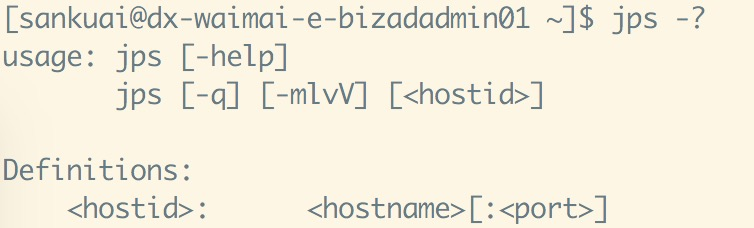
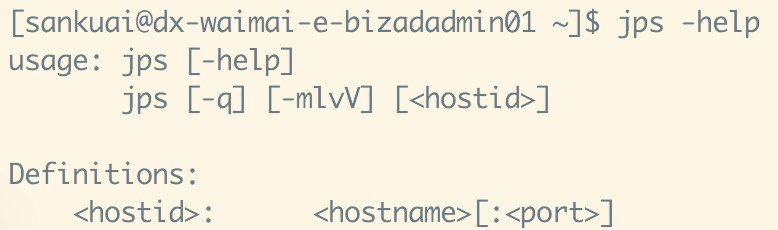
update

diff --git a/note/jps.md b/note/jps.md
@@ -12,6 +12,10 @@ java程序启动以后，会在`java.io.tmpdir`目录下，就是临时文件夹
 
 #### 如何使用？
 
+jps -help
+
+![](https://raw.githubusercontent.com/tinyivc/tinyivc.github.io/master/img/jps-help.jpg)
+
 ```shell
 jps [-q] [-mlvV] [<hostid>]
 ```
@@ -22,6 +26,8 @@ jps [-q] [-mlvV] [<hostid>]
 jps -lvm
 ```
 
+![](https://raw.githubusercontent.com/tinyivc/tinyivc.github.io/master/img/jps-lvm.jpg)
+
 #### 具体参数
 
 ##### hostid
@@ -31,18 +37,26 @@ jps -lvm
 ##### -l
 
     输出应用程序主类的类全名，或者是应用程序JAR文件的完整路径。
+![](https://raw.githubusercontent.com/tinyivc/tinyivc.github.io/master/img/jps-l.jpg)
+
 ##### -v
 
     输出传给JVM的参数。
+![](https://raw.githubusercontent.com/tinyivc/tinyivc.github.io/master/img/jps-v.jpg)
+
 ##### -m
 
     输出传递给main方法的参数，如果是内嵌的JVM则输出为null。
+![](https://raw.githubusercontent.com/tinyivc/tinyivc.github.io/master/img/jps-m.jpg)
+
 ##### -V
 
     输出通过标记的文件传递给JVM的参数（.hotspotrc文件，或者是通过参数-XX:Flags=<filename>指定的文件）。
 ##### -q
 
     只输出pid，忽略输出的类名、Jar包名以及传递给main方法的参数。
+![](https://raw.githubusercontent.com/tinyivc/tinyivc.github.io/master/img/jps-q.jpg)
+
 ##### -JjavaOption
 
     用于将给定的javaOption传给java应用程序加载器，例如，“-J-Xms48m”将把启动内存设置为48M。使用-J选项可以非常方便的向基于Java开发的底层虚拟机应用程序传递参数。

diff --git a/note/jstack.md b/note/jstack.md
@@ -13,6 +13,7 @@
 #### 如何使用？
 
 jstack -help
+![](https://raw.githubusercontent.com/tinyivc/tinyivc.github.io/master/img/jstack-help.jpg)
 
 ```shell
 jstack [-l] <pid>
@@ -41,46 +42,22 @@ jstack -m 2334
 #### 具体参数
 
 
-    -F  to force a thread dump. Use when jstack <pid> does not respond (process is hung)
-进程没有响应的时候，强制打印线程栈信息。
-
-    -m  to print both java and native frames (mixed mode)
-不仅会输出Java堆栈信息，还会输出C/C++堆栈信息（比如native方法）
-
-
+    -h or -help to print this help message
 
     -l  long listing. Prints additional information about locks
 打印额外的锁信息，在发生死锁时，用来观察锁持有情况
 
+![](https://raw.githubusercontent.com/tinyivc/tinyivc.github.io/master/img/jstack-l.jpg)
 
+    -m  to print both java and native frames (mixed mode)
+不仅会输出Java堆栈信息，还会输出C/C++堆栈信息（比如native方法）
 
-    -h or -help to print this help message
+![](https://raw.githubusercontent.com/tinyivc/tinyivc.github.io/master/img/jstack-m.jpg)
 
+jstack -l -m pid
 
+![](https://raw.githubusercontent.com/tinyivc/tinyivc.github.io/master/img/jstack-l-m.jpg)
 
-
-
-
-
-
-
-
-
-
-
-
-
-
-
-
-
-
-
-
-
-
-
-
-
-
+    -F  to force a thread dump. Use when jstack <pid> does not respond (process is hung)
+进程没有响应的时候，强制打印线程栈信息。
 

diff --git a/note/jstat.md b/note/jstat.md
@@ -14,6 +14,10 @@
 
 #### 如何使用？
 
+jstat -help
+
+
+
 ```shell
 jstat -<option> [-t][-h] <vmid> [<interval> [<count>]]
 ```
